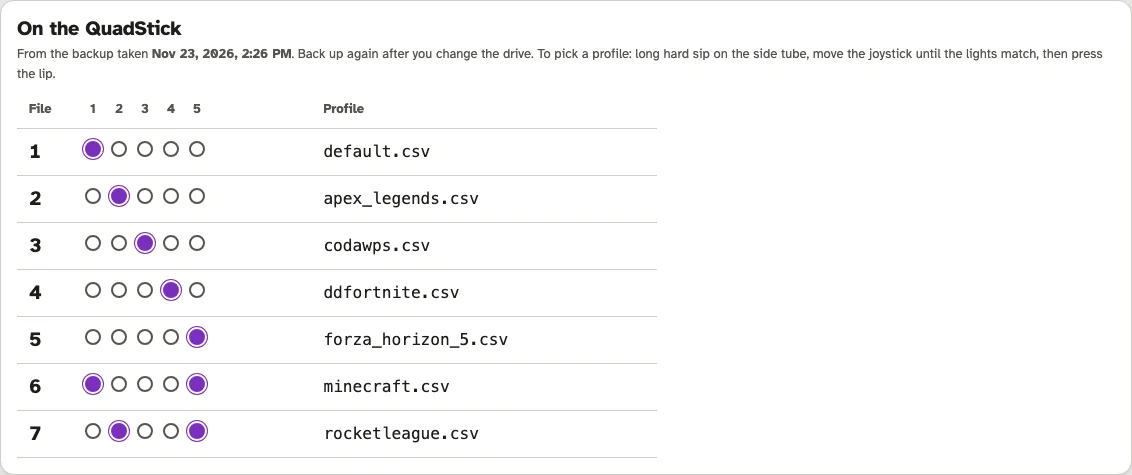
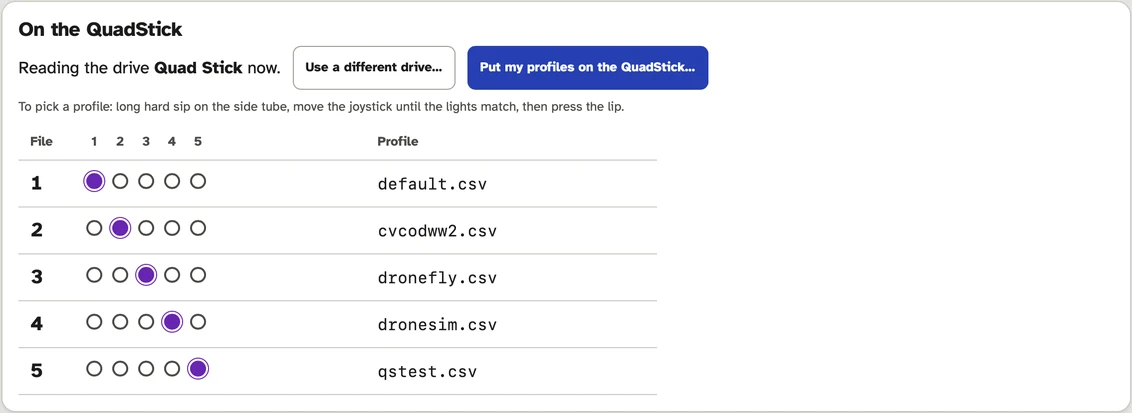
Show the desktop app's live drive list in the README

diff --git a/README.md b/README.md
@@ -139,7 +139,7 @@ remembers it; if yours has another name, press **Choose the drive…** once. **B
 the QuadStick** then reads the drive straight away, with no folder to pick. On a NAS
 the app cannot see your computer's drives, so the list shows your newest backup.
 
-![The profiles on the QuadStick, with their lights](docs/screenshots/16-on-device.webp)
+![The desktop app reading the QuadStick: each profile with the lights that pick it](docs/screenshots/16-on-device.webp)
 
 ### Put your profiles on the QuadStick (desktop app)
 
